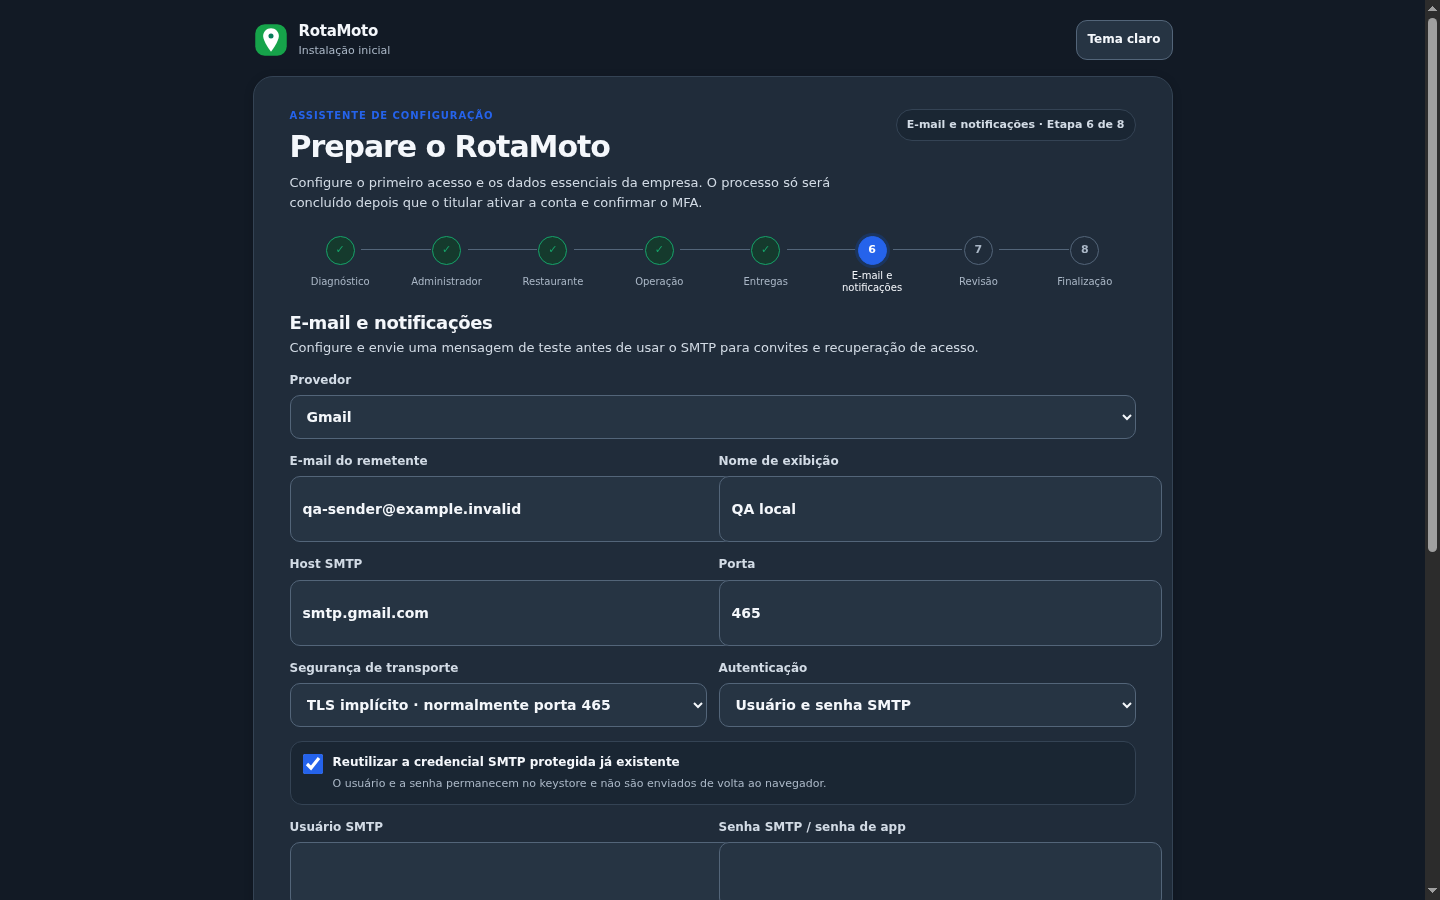
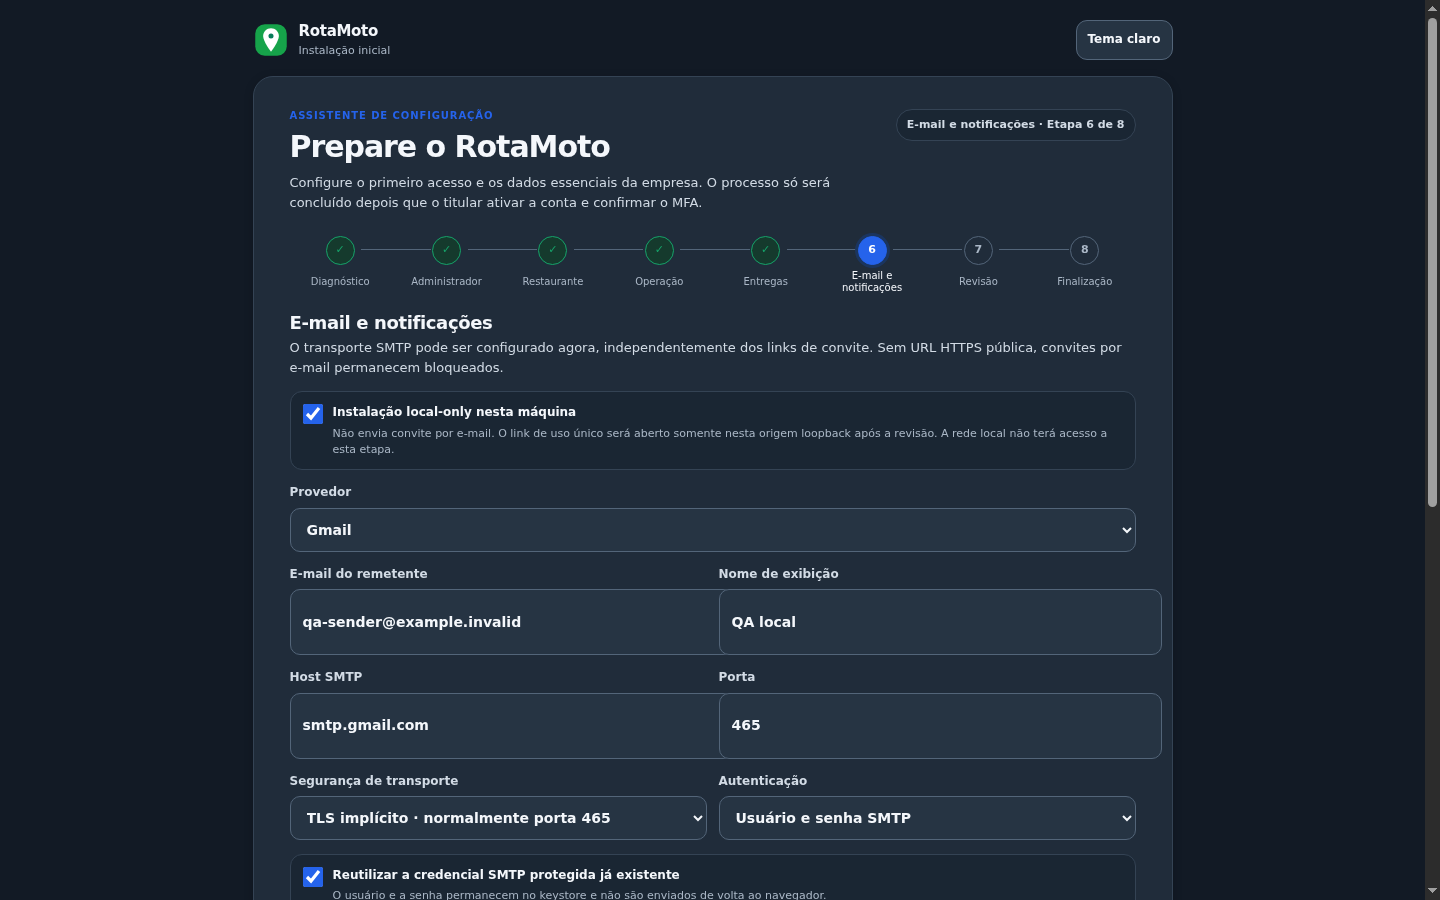
docs(0304): record local-only bootstrap validation

diff --git a/EVIDENCIAS/0304/smtp-bootstrap-2026-11-03/README.md b/EVIDENCIAS/0304/smtp-bootstrap-2026-11-03/README.md
@@ -37,3 +37,17 @@
 A configuração privada existente já fornece host, remetente e credencial cifrada; a etapa os oferece para reutilização sem mostrar a senha. A única dependência de entrega que falta é a URL pública HTTPS sob a qual os destinatários abrirão os convites. A tela sugere como destinatário do teste o próprio remetente já verificado. O proprietário deverá informar a URL real, revisar os dados iniciais, pressionar **Testar e-mail** no Bootstrap e confirmar no Gmail a mensagem recebida; o SMTP pode confirmar apenas que aceitou o envio. A instalação não foi iniciada nem concluída, e nenhum fundador/empresa/usuário foi criado.
 
 Campanha 0304 permanece aberta; G14 e demais pendências visuais/backlog continuam como estavam; 0305 não foi iniciada.
+
+## Modo local-only do Bootstrap — aditivo (2026-11-03)
+
+**PARTIAL.** A primeira instalação agora pode começar localmente sem domínio público. O backend habilita esse modo somente no serviço oficial, com banco `rotamoto`, socket peer loopback real e validação de Host/Origin local; cabeçalhos encaminhados não concedem confiança. O serviço `rotamoto_e2e` não recebe essa autorização. O nginx ativo foi inspecionado: `127.0.0.1:8083`, document root no checkout Restaurante e proxy oficial para `127.0.0.1:8788`.
+
+SMTP e links de convite têm estados independentes. É possível validar, testar e persistir o transporte sem URL pública HTTPS. Sem URL HTTPS pública válida, envio de convites externos permanece bloqueado com mensagem explícita; filas/auditoria permanecem preservadas. O proprietário pode usar o handoff local de uso único para iniciar a ativação do titular na mesma máquina; senha e MFA obrigatória continuam no fluxo normal. O modo público poderá ser habilitado depois configurando a URL HTTPS sem reinstalar/resetar o banco.
+
+A execução integral sintética passou em PostgreSQL descartável, isolado e destruído após o teste: prova temporária local, negação de prova ausente, handoff de convite de uso único, senha, TOTP/MFA confirmado, grant fundador somente após MFA e latch atômico. Também cobriu instalação já reclamada, concorrência, RLS e isolamento; não houve escrita nos bancos operacionais e nenhum dado sintético foi enviado a SMTP externo. Testes `npm run test:bootstrap-local-only-disposable`, `npm run test:smtp-bootstrap`, suíte integral `npm test`, `assets:check` e `git diff --check` passaram. Browser QA na URL publicada: claro/escuro × 390/768/1440, 6/6 sem overflow/erros; modo local selecionado manteve o avanço acessível sem URL ou chamada de provisionamento. As capturas e relatório JSON desta pasta registram o resultado.
+
+Migration adicional `0070_founder_mfa_audit_actor_kind` foi validada com up/down no banco descartável e aplicada pelos mecanismos oficiais a `rotamoto` e `rotamoto_e2e`. Corrige o constraint histórico incompatível com o ator `user` que a função de conclusão já grava somente após MFA; não altera grants, RLS, latch ou identidade. Checksums de 0067–0069 permanecem inalterados. Em ambos os bancos: migrations 0067–0070 presentes, 0 empresas, 0 usuários, 0 grants fundadores, latch fundador livre, catálogo RBAC com 10 registros, RLS/FORCE RLS preservados. Nenhuma instalação foi concluída em banco operacional.
+
+Estado HTTP observado: Bootstrap 8083 = 200 com assets CSS/JS 200; status oficial 8788 = `ready` e `localOnlyBootstrapAvailable=true`; status E2E 8787 = `ready` e `localOnlyBootstrapAvailable=false`; readiness de ambos = 200. SMTP ainda não está configurado/persistido e entrega de convites está indisponível até o proprietário fornecer a URL HTTPS pública. Isso não impede o handoff local nem a leitura de estado inicial.
+
+Commit local Restaurante: `4585a60a21ac57ee8613ac5c8339a15c41036d69` (`feat(restaurante): support loopback-only first install`), sem push do aplicativo. **Pendência operacional:** o proprietário deve preencher os dados reais e concluir pelo navegador local; nenhum fundador, empresa ou usuário foi criado. Campanha 0304 aberta, G14/backlog preservados e 0305 não iniciada.

diff --git a/REGISTROS/0304.md b/REGISTROS/0304.md
@@ -1039,3 +1039,14 @@ Migration 0069 (com up/down e checksum) foi aplicada pelos runners oficiais a `r
 Bootstrap `8083` serve o instalador e seus assets JS/CSS (200); API oficial `8788` e E2E `8787` retornam `state=ready`; readiness oficial pronta. Rota SMTP oficial anônima retorna 403 e E2E não expõe a rota (404). Browser QA/CDP percorreu a etapa publicada em 390/768/1440 px e claro/escuro (6/6), sem overflow, erros JS/HTTP, envio pelo browser, nem POST de instalação; a credencial e senha estão ausentes do armazenamento do navegador. `npm test`, `npm run test:smtp-bootstrap`, testes PostgreSQL de replay/concorrência, regressão de convites/admin, `assets:check` e `git diff --check` passaram. Ver [evidências SMTP](../EVIDENCIAS/0304/smtp-bootstrap-2026-11-03/README.md).
 
 **Pendência para ativar convites e seguir à revisão:** proprietário informar a URL pública HTTPS real para links do convite e executar/confirmar “Testar e-mail” pelo Bootstrap; a tela preenche o endereço remetente já verificado como destino de teste. Nenhum fundador, empresa ou usuário criado; MFA/RBAC/RLS e latches preservados; instalação não concluída. G14/backlog anteriores permanecem inalterados, Campanha 0304 aberta e 0305 não iniciada.
+
+
+### Bootstrap em rede local — 2026-11-03
+
+**PARTIAL; caminho local implementado e validado em ambiente descartável.** Modo `local-only` disponível apenas no serviço oficial quando o banco exato é `rotamoto`, o peer TCP é loopback e Host/Origin são locais. Forwarded headers não são usados como identidade. E2E continua sem autorização local. SMTP pode ser testado/persistido independentemente; sem URL pública HTTPS, convites com links externos permanecem desabilitados, com filas e auditoria preservadas. Configurar HTTPS no futuro habilita os links sem reset/reinstalação. O handoff local é de uso único; senha, MFA obrigatório, latch fundador e demais controles existentes permanecem ativos.
+
+Teste sintético de instalação completa executado somente em cluster PostgreSQL descartável: prova local, handoff, senha, TOTP/MFA, grant fundador após MFA, latch, concorrência e isolamento aprovados; cluster descartado. Nenhum fundador/empresa/usuário criado nos bancos oficiais. Migration 0070 validada up/down em descartável e aplicada via runner oficial nos dois bancos, sem reaplicar 0067–0069; corrigiu apenas o enum/constraint de auditoria necessário ao registro do ator autenticado pós-MFA. 0067–0069 e checksums mantidos. Em `rotamoto` e `rotamoto_e2e`: 0 empresas, 0 usuários, 0 grants fundadores; latches livres, RBAC estrutural = 10 registros e RLS/FORCE RLS preservados.
+
+API oficial em 8788 informa `ready` e `localOnlyBootstrapAvailable=true`; E2E 8787 informa `ready` e `false`; ambas readiness 200. nginx ativo confirmado em `127.0.0.1:8083`, root do checkout Restaurante, proxy oficial 8788. `/bootstrap.html` e JS/CSS 200 com hashes/manifesto sincronizados. Browser QA publicado: claro/escuro × 390, 768 e 1440 px, sem overflow/erros; modo local permite avançar sem SMTP/URL, sem POST de provisionamento. Suíte `npm test`, teste disposable, suíte SMTP/bootstrap, assets e diff-check passaram. SMTP/convites externos ainda não estão configurados; falta URL HTTPS pública para ativar convites. Evidências detalhadas: [Bootstrap local-only](../EVIDENCIAS/0304/smtp-bootstrap-2026-11-03/README.md).
+
+Commit local Restaurante: `4585a60a21ac57ee8613ac5c8339a15c41036d69`, sem push. Nenhuma instalação iniciada nos bancos oficiais; execução pelo navegador real permanece para o proprietário. **PARTIAL**, não PASS de instalação operacional. G14, backlog e Campanha 0304 permanecem abertos; 0305 não iniciada.

diff --git a/RESUMOS/0304.md b/RESUMOS/0304.md
@@ -477,3 +477,7 @@ PARTIAL: runtime oficial local habilitado com keystore MFA existente e alvo exat
 **PARTIAL.** Implementados Bootstrap SMTP e Ajustes administrativos com credencial Gmail existente reutilizável sem retorno ao browser, TLS/host público, replay/rate limit persistentes, authorization temporária no pré-login e founder + sessão MFA/CSRF no pós-instalação. Migration 0069 aplicada oficialmente aos dois bancos, checksums 0067/0068 preservados, sem alterar dados/latches. Teste externo real: SMTP autenticou e aceitou uma mensagem ao remetente configurado; inbox não confirmada. SMTP capture local, unit/HTTP, SQL concorrência (8 chamadas, 5 aceitas), isolamento oficial/E2E, RLS, permissões, convites e suíte integral `npm test` passaram. Browser QA publicado 6/6 em claro/escuro 390/768/1440. APIs 8788/8787 `ready`, Bootstrap 8083 e assets 200.
 
 A configuração de convites não está ainda habilitada: falta ao proprietário informar a URL pública HTTPS real e executar o teste final pelo formulário; o próprio remetente está predefinido como destinatário. Instalação permanece inicial; nenhum fundador/empresa/usuário criado. Evidências em [`smtp-bootstrap-2026-11-03`](../EVIDENCIAS/0304/smtp-bootstrap-2026-11-03/README.md). Campanha 0304 aberta, G14/backlog preservados e 0305 não iniciada.
+
+### Aditivo: instalação local sem domínio público
+
+O modo local-only do Bootstrap está implementado e passou execução sintética integral em PostgreSQL descartável, incluindo senha, MFA/TOTP e latch fundador. Apenas o serviço oficial via loopback pode autorizar o handoff local; E2E e clientes remotos não. Transporte SMTP pode ser configurado/testado sem URL; convites externos continuam bloqueados até URL pública HTTPS. Migration 0070 aplicada aos dois bancos e estruturas/dados operacionais preservados. API oficial/Bootstrap local prontos; browser QA em 6 combinações passou. Nenhum fundador/empresa criado nos bancos existentes. Classificação **PARTIAL** até o proprietário concluir com seus dados reais; detalhes e capturas em [evidências](../EVIDENCIAS/0304/smtp-bootstrap-2026-11-03/README.md). G14/backlog/campanha mantidos; 0305 não iniciada.

diff --git a/PENDENCIAS.md b/PENDENCIAS.md
@@ -2478,3 +2478,10 @@ Após o reset, o endpoint oficial reconhece `rotamoto` como `ready`; o endpoint 
 - [ ] Após o transporte ficar pronto, revisar e avançar para os controles existentes de fundador/MFA sem iniciar instalação até o proprietário decidir.
 
 A credencial Gmail existente foi autenticada e o servidor aceitou uma mensagem de teste ao remetente configurado. Nenhum valor sensível está registrado. Ver `EVIDENCIAS/0304/smtp-bootstrap-2026-11-03/README.md`. G14 e backlog anteriores sem alteração; 0304 aberta; 0305 não iniciada.
+
+### Instalação local — atualização 2026-11-03
+
+- [ ] Proprietário preencher dados reais e concluir a primeira instalação pelo navegador local, seguindo senha e MFA obrigatórios. Nenhuma conta/empresa foi criada durante os testes.
+- [ ] Para convites com links externos, definir futuramente uma URL HTTPS pública e testar o envio; SMTP pode ser persistido/testado antes disso, mas envio de convites permanece bloqueado enquanto os links forem locais/inacessíveis.
+
+Modo `local-only` já pode iniciar a primeira instalação pelo loopback, sem domínio público. Sintético integral passou apenas em PostgreSQL descartável. Evidências em `EVIDENCIAS/0304/smtp-bootstrap-2026-11-03/README.md`. G14, demais pendências e Campanha 0304 seguem abertos; 0305 não iniciada.
